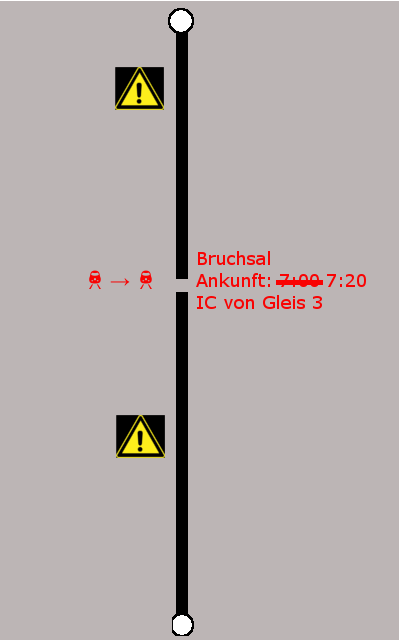
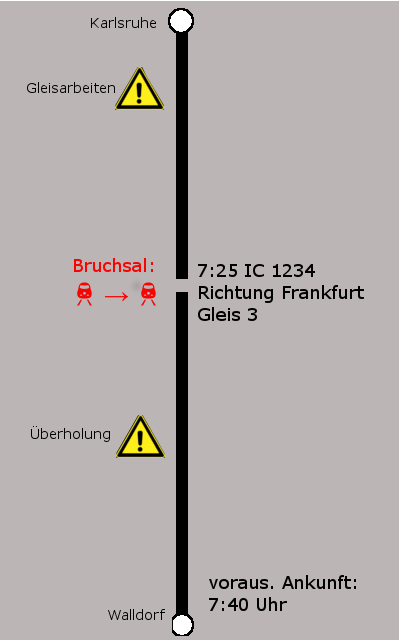
DetailPage <3

diff --git a/UX/Prototype/JourneyDetailPage.xaml b/UX/Prototype/JourneyDetailPage.xaml
@@ -12,25 +12,22 @@
             <RowDefinition Height="6*">
 
             </RowDefinition>
-            <RowDefinition Height="3*">
+            <RowDefinition Height="2*">
 
             </RowDefinition>
 
-            <RowDefinition Height="0.5*">
+            <RowDefinition Height="1*">
 
             </RowDefinition>
         </Grid.RowDefinitions>
 
         <Canvas x:Name="canvas" Background="#bcb5b5">
-            <Image x:Name="image" Source="Assets/plan.png" Height="{Binding ActualHeight, ElementName=canvas, Mode=OneWay}" Width="{Binding ActualWidth, ElementName=canvas, Mode=OneWay}" HorizontalAlignment="Center" VerticalAlignment="Center" />
+            <Image x:Name="image" Source="Assets/plan.png" Height="{Binding ActualHeight, ElementName=canvas, Mode=OneWay}" Width="{Binding ActualWidth, ElementName=canvas, Mode=OneWay}" HorizontalAlignment="Center" VerticalAlignment="Center" Stretch="Uniform" />
         </Canvas>
 
 
         <Grid Grid.Row="1" Margin="10">
             <Grid.RowDefinitions>
-                <RowDefinition Height="1*">
-
-                </RowDefinition>
                 <RowDefinition Height="1*">
 
                 </RowDefinition>
@@ -50,23 +47,30 @@
                 </ColumnDefinition>
             </Grid.ColumnDefinitions>
 
-            <TextBlock Grid.ColumnSpan="2" Text="Von A" VerticalAlignment="Center" HorizontalAlignment="Left" />
-            <TextBlock Grid.ColumnSpan="2" Grid.Row="1" Text="Nach B" HorizontalAlignment="Left" VerticalAlignment="Center"></TextBlock>
-            <TextBlock Grid.Row="2" Text="Linie C" VerticalAlignment="Center" HorizontalAlignment="Left"></TextBlock>
-            <TextBlock Grid.Row="3" VerticalAlignment="Center" HorizontalAlignment="Left" >
-                <Run Text="Verspätung D"/>
-                <Run Text=" inkl"/>
-                <Run Text=". in %"/>
+            <TextBlock Grid.ColumnSpan="2" VerticalAlignment="Center" HorizontalAlignment="Left" >
+                <Run Text="Von " FontWeight="Bold"/>
+                <Run Text="Karlsruhe"/>
             </TextBlock>
-
-            <!--Button Grid.Row="2" Grid.Column="1" HorizontalAlignment="Center" VerticalAlignment="Top" FontSize="20">#Kaufen</-->
+            <TextBlock Grid.ColumnSpan="2" HorizontalAlignment="Left" VerticalAlignment="Center" Grid.Column="1">
+                <Run Text="Nach " FontWeight="Bold"/>
+                <Run Text="Walldorf"/>
+            </TextBlock>
+            <TextBlock Grid.Row="1" VerticalAlignment="Center" HorizontalAlignment="Left">
+                <Run Text="geplante Linie(n) " FontWeight="Bold"/>
+                <Run Text="S3"/>
+            </TextBlock>
+            <TextBlock Grid.Row="2" VerticalAlignment="Center" HorizontalAlignment="Left" >
+                <Run Text="Verspätung " FontWeight="Bold"/>
+                <Run Text="20 min "/>
+                <Run Text="(80%)" Foreground="Red"></Run>
+            </TextBlock>
 
         </Grid>
 
-        <Button Grid.Row="2" HorizontalAlignment="Stretch" Margin="0,-0.333,0,0" d:LayoutOverrides="LeftPosition, RightPosition" VerticalAlignment="Top">
+        <Button Grid.Row="2" HorizontalAlignment="Stretch" Margin="10" d:LayoutOverrides="LeftPosition, RightPosition" VerticalAlignment="Top" Background="Lime">
             <StackPanel Orientation="Horizontal">
                 <SymbolIcon Symbol="Shop"/>
-                <TextBlock Margin="10,0,0,0" >Ticket kaufen</TextBlock>
+                <TextBlock Margin="10,0,0,0" FontWeight="Bold" >Ticket kaufen</TextBlock>
             </StackPanel>
         </Button>
 
